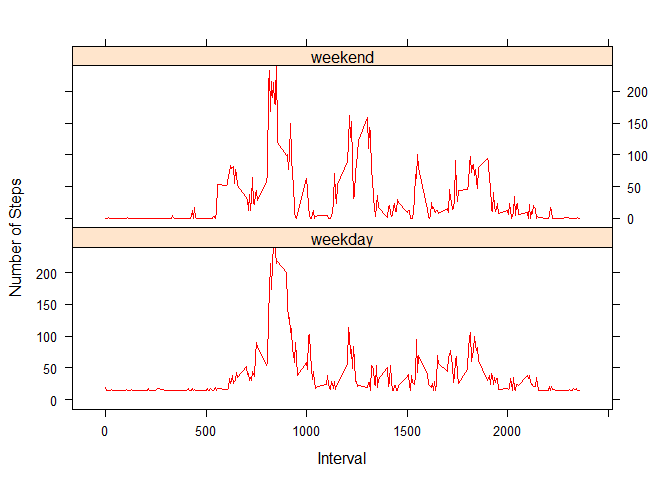
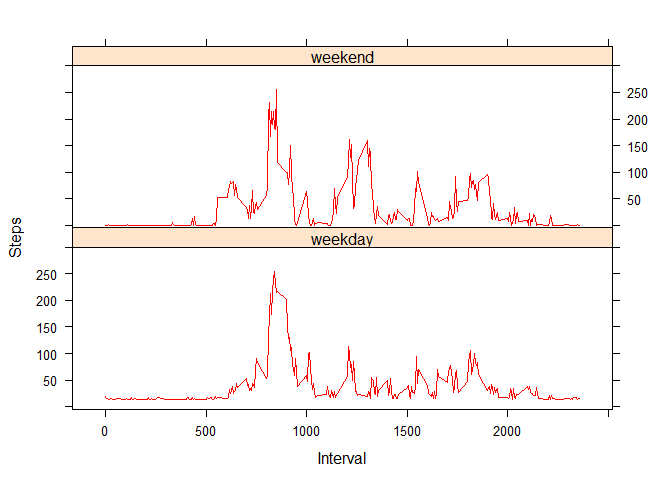
My Fourth Commit.  My final commit for submission

diff --git a/PA1_Template.html b/PA1_Template.html
@@ -95,6 +95,7 @@ img {
 hist(steps_day, main = &quot;Steps&quot;, ylab=&quot;frequency&quot;, 
      xlab=&quot;Total Steps&quot;, col=&quot;blue&quot;, breaks=10)</code></pre>
[1 lines of base64/hex data omitted]
+<p>The histogram appears to have a somewhat normal curve.</p>
 <p>Find the mean and median number of steps taken each day</p>
[1 lines of base64/hex data omitted]
 <p>Find the interval containing the maximum number of steps</p>
@@ -102,7 +103,9 @@ hist(steps_day, main = &quot;Steps&quot;, ylab=&quot;frequency&quot;,
 <p>Create code to impute missing data</p>
 <pre><code>## [1] 2304</code></pre>
[2 lines of base64/hex data omitted]
+<p>The imputed data looks similar to the non-imputed data.</p>
[1 lines of base64/hex data omitted]
+<p>This weekend vs weekday looks similar.</p>
 </div>
 </div>
 

diff --git a/PA1_Template.md b/PA1_Template.md
@@ -35,6 +35,7 @@ hist(steps_day, main = "Steps", ylab="frequency",
 
 ![](PA1_Template_files/figure-html/unnamed-chunk-3-1.png)<!-- -->
 
+The histogram appears to have a somewhat normal curve.
 
 Find the mean and median number of steps taken each day
 
@@ -55,5 +56,11 @@ Create code to impute missing data
 Histogram of total number of steps from imputed data
 ![](PA1_Template_files/figure-html/unnamed-chunk-8-1.png)<!-- -->
 
+
+The imputed data looks similar to the non-imputed data.
+
 Avg number of steps panel plot of weekends vs weekdays 
 ![](PA1_Template_files/figure-html/unnamed-chunk-9-1.png)<!-- -->
+
+
+This weekend vs weekday looks similar.
